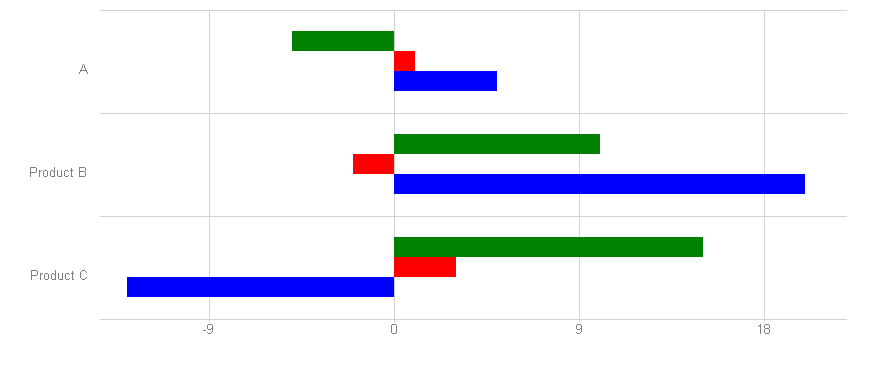
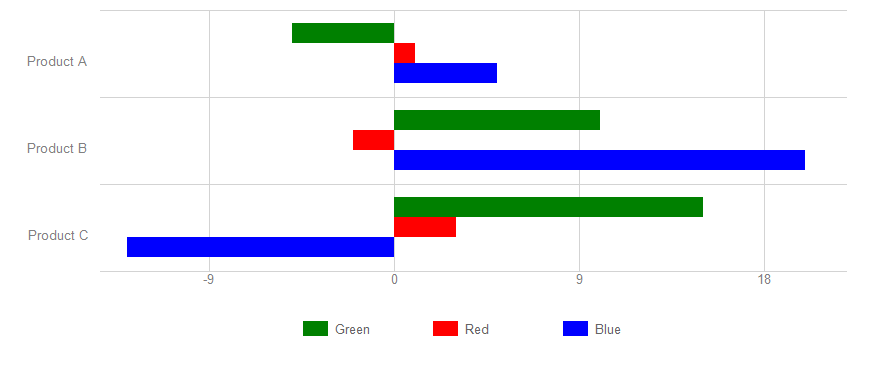
BarChart: Add FormatAxisValueString, Add Legend

diff --git a/SimpleImageCharts/BarChart/BarChart.cs b/SimpleImageCharts/BarChart/BarChart.cs
@@ -12,7 +12,10 @@ namespace SimpleImageCharts.BarChart
 
         private const int MarginTop = 10;
 
-        private const int MarginBottom = 50;
+        private const int MarginBottom = 100;
+
+        // use "0;0" for forcing positive value
+        public string FormatAxisValueString { get; set; } = string.Empty;
 
         public int BarSize { get; set; } = 20;
 
@@ -27,6 +30,8 @@ namespace SimpleImageCharts.BarChart
         public string[] Categories { get; set; }
 
         public BarSeries[] DataSets { get; set; }
+
+        public Font Font { get; set; } = new Font("Arial", 10);
 
         private int _categoryHeight;
 
@@ -64,12 +69,13 @@ namespace SimpleImageCharts.BarChart
             using (var graphic = Graphics.FromImage(bitmap))
             {
                 graphic.Clear(Color.White);
+
                 // X axis line
                 graphic.DrawLine(Pens.LightGray, _rootX, MarginTop, _rootX, Height - MarginBottom);
 
                 DrawHorizontalLines(graphic);
                 DrawVerticalLines(graphic);
-                DrawVerticalValueLabels(graphic);
+                DrawHorizontalAxisValues(graphic);
                 var offsetY = IsStacked ? -BarSize / 2 : -(DataSets.Length * BarSize) / 2;
                 foreach (var data in DataSets)
                 {
@@ -80,7 +86,8 @@ namespace SimpleImageCharts.BarChart
                     }
                 }
 
-                DrawCategoyLabels(graphic);
+                DrawCategoryLabels(graphic);
+                DrawLegend(graphic);
             }
 
             return bitmap;
@@ -122,23 +129,22 @@ namespace SimpleImageCharts.BarChart
             }
         }
 
-        private void DrawVerticalValueLabels(Graphics graphic)
+        private void DrawHorizontalAxisValues(Graphics graphic)
         {
             var x = _rootX;
             var realStepSize = StepSize * _widthUnit;
-            using (var font = new Font("Arial", 10))
             using (var stringFormat = new StringFormat())
             {
                 stringFormat.Alignment = StringAlignment.Center;
 
-                graphic.DrawString("0", font, Brushes.Gray, _rootX, Height - MarginBottom, stringFormat);
+                graphic.DrawString("0", Font, Brushes.Gray, _rootX, Height - MarginBottom, stringFormat);
 
                 for (int i = 0; i < _maxValue; i += StepSize)
                 {
                     x += realStepSize;
                     if (x < Width - MarginRight)
                     {
-                        graphic.DrawString((i + StepSize).ToString(), font, Brushes.Gray, x, Height - MarginBottom, stringFormat);
+                        graphic.DrawString((i + StepSize).ToString(FormatAxisValueString), Font, Brushes.Gray, x, Height - MarginBottom, stringFormat);
                     }
                 }
 
@@ -148,23 +154,22 @@ namespace SimpleImageCharts.BarChart
                     x -= realStepSize;
                     if (Math.Abs(x) > MarginLeft)
                     {
-                        graphic.DrawString((i - StepSize).ToString(), font, Brushes.Gray, x, Height - MarginBottom, stringFormat);
+                        graphic.DrawString((i - StepSize).ToString(FormatAxisValueString), Font, Brushes.Gray, x, Height - MarginBottom, stringFormat);
                     }
                 }
             }
         }
 
-        private void DrawCategoyLabels(Graphics graphic)
+        private void DrawCategoryLabels(Graphics graphic)
         {
             var y = MarginTop + _categoryHeight / 2;
-            using (var font = new Font("Arial", 10))
             using (StringFormat stringFormat = new StringFormat())
             {
                 stringFormat.Alignment = StringAlignment.Far;
 
                 foreach (var item in Categories)
                 {
-                    graphic.DrawString(item, font, Brushes.Gray, MarginLeft - 10, y, stringFormat);
+                    graphic.DrawString(item, Font, Brushes.Gray, MarginLeft - 10, y, stringFormat);
                     y += _categoryHeight;
                 }
             }
@@ -191,5 +196,31 @@ namespace SimpleImageCharts.BarChart
                 }
             }
         }
-    }
+
+        private void DrawLegend(Graphics graphic)
+        {
+            const int RectWidth = 25;
+            const int RectHeight = 15;
+
+            const int labelWidth = 130;
+            var legendWidth = labelWidth * DataSets.Length;
+
+            var left = MarginLeft + (Width - MarginLeft - MarginRight - legendWidth) / 2 + RectWidth;
+            var top = Height - MarginBottom / 2;
+
+            using (var textBrush = new SolidBrush(Color.FromArgb(100, 100, 100)))
+            {
+                foreach (var dataset in DataSets)
+                {
+                    using (var brush = new SolidBrush(dataset.Color))
+                    {
+                        graphic.FillRectangle(brush, left, top, RectWidth, RectHeight);
+                        graphic.DrawString(dataset.Label, Font, textBrush, left + RectWidth + 5, top);
+                    }
+
+                    left += labelWidth;
+                }
+            }
+            }
+        }
 }

diff --git a/SimpleImageChartsDemo/Form1.cs b/SimpleImageChartsDemo/Form1.cs
@@ -71,22 +71,25 @@ namespace WindowsFormsChart
             {
                 Width = pictureBox1.Width,
                 Height = pictureBox1.Height,
-                Categories = new[] { "A", "Product B", "Product C" },
+                Categories = new[] { "Product A", "Product B", "Product C" },
                 DataSets = new[]
                 {
                     new BarSeries
                     {
+                        Label = "Green",
                         Color = Color.Green,
                         Data = new[] { -5f, 10f, 15f },
                     },
                     new BarSeries
                     {
+                        Label = "Red",
                         Color = Color.Red,
                         Data = new[] { 1f, -2f, 3f },
                     }
                     ,
                     new BarSeries
                     {
+                        Label = "Blue",
                         Color = Color.Blue,
                         Data = new[] { 5f, 20f, -13f },
                     }
@@ -104,16 +107,18 @@ namespace WindowsFormsChart
                 Width = pictureBox1.Width,
                 Height = pictureBox1.Height,
                 IsStacked = true,
-                Categories = new[] { "A", "Product B", "Product C", "A", "Product B", "Product C", "A", "Product B", "Product C" },
+                Categories = new[] { "Product A", "Product B", "Product C", "Product A", "Product B", "Product C", "Product A", "Product B", "Product C" },
                 DataSets = new[]
                 {
                     new BarSeries
                     {
+                        Label = "Yesterday",
                         Color = Color.Green,
                         Data = new[] { -5f, -10f, -1f , -5f, -10f, -1f , -5f, -10f, -1f },
                     },
                     new BarSeries
                     {
+                        Label = "Today",
                         Color = Color.Red,
                         Data = new[] { 10f, 20f, 5f, 10f, 20f, 5f, 10f, 20f, 5f },
                     }
@@ -144,12 +149,12 @@ namespace WindowsFormsChart
             };
 
             pictureBox1.Image = chart.CreateImage();
-            pictureBox1.Image.Save(@"D:\GitHub\SimpleImageCharts\screenshots\DoubleAxisBarChart.jpg");
+        //    pictureBox1.Image.Save(@"D:\GitHub\SimpleImageCharts\screenshots\DoubleAxisBarChart.jpg");
         }
 
         private void BtnColumnChart_Click(object sender, EventArgs e)
         {
-            var categories = new[] { "A", "Product B", "Product C", "Product D", "Product E" };
+            var categories = new[] { "Product A", "Product B", "Product C", "Product D", "Product E" };
             var rand = new Random();
             var datasets = new ColumnSeries[4];
             for (int i = 0; i < datasets.Length; i++)
@@ -177,7 +182,7 @@ namespace WindowsFormsChart
             };
 
             pictureBox1.Image = chart.CreateImage();
-            pictureBox1.Image.Save(@"D:\GitHub\SimpleImageCharts\screenshots\ColumnChart.jpg");
+         //   pictureBox1.Image.Save(@"D:\GitHub\SimpleImageCharts\screenshots\ColumnChart.jpg");
         }
     }
 }

diff --git a/SimpleImageCharts/PieChart/PieChart.cs b/SimpleImageCharts/PieChart/PieChart.cs
@@ -113,14 +113,12 @@ namespace SimpleImageCharts.PieChart
 
             using (var textBrush = new SolidBrush(Color.FromArgb(100, 100, 100)))
             {
-                var font = new Font("Arial", 12);
-
                 foreach (var entry in Entries)
                 {
                     using (var brush = new SolidBrush(entry.Color))
                     {
                         graphic.FillRectangle(brush, left, top, Width, Height);
-                        graphic.DrawString(entry.Label, font, textBrush, left + Width + 5, top);
+                        graphic.DrawString(entry.Label, Font, textBrush, left + Width + 5, top);
                     }
 
                     top += 20;

diff --git a/SimpleImageCharts/BarChart/BarSeries.cs b/SimpleImageCharts/BarChart/BarSeries.cs
@@ -4,6 +4,8 @@ namespace SimpleImageCharts.BarChart
 {
     public class BarSeries
     {
+        public string Label { get; set; }
+
         public Color Color { get; set; }
 
         public float[] Data { get; set; }

diff --git a/README.md b/README.md
@@ -74,22 +74,25 @@ var chart = new BarChart
 {
     Width = 600,
     Height = 300,
-    Categories = new[] { "A", "Product B", "Product C" },
+    Categories = new[] { "Product A", "Product B", "Product C" },
     DataSets = new[]
     {
         new BarSeries
         {
+            Label = "Green",
             Color = Color.Green,
             Data = new[] { -5f, 10f, 15f },
         },
         new BarSeries
         {
+            Label = "Red",
             Color = Color.Red,
             Data = new[] { 1f, -2f, 3f },
         }
         ,
         new BarSeries
         {
+            Label = "Blue",
             Color = Color.Blue,
             Data = new[] { 5f, 20f, -13f },
         }
@@ -107,18 +110,20 @@ var chart = new BarChart
     Width = 600,
     Height = 300,
     IsStacked = true, // default: false
-    Categories = new[] { "Product A", "Product B", "Product C" },
+    Categories = new[] { "Product A", "Product B", "Product C", "Product A", "Product B", "Product C", "Product A", "Product B", "Product C" },
     DataSets = new[]
     {
         new BarSeries
         {
+            Label = "Yesterday",
             Color = Color.Green,
-            Data = new[] { -5f, -10f, -1f },
+            Data = new[] { -5f, -10f, -1f , -5f, -10f, -1f , -5f, -10f, -1f },
         },
         new BarSeries
         {
+            Label = "Today",
             Color = Color.Red,
-            Data = new[] { 10f, 20f, 5f },
+            Data = new[] { 10f, 20f, 5f, 10f, 20f, 5f, 10f, 20f, 5f },
         }
     }
 };
